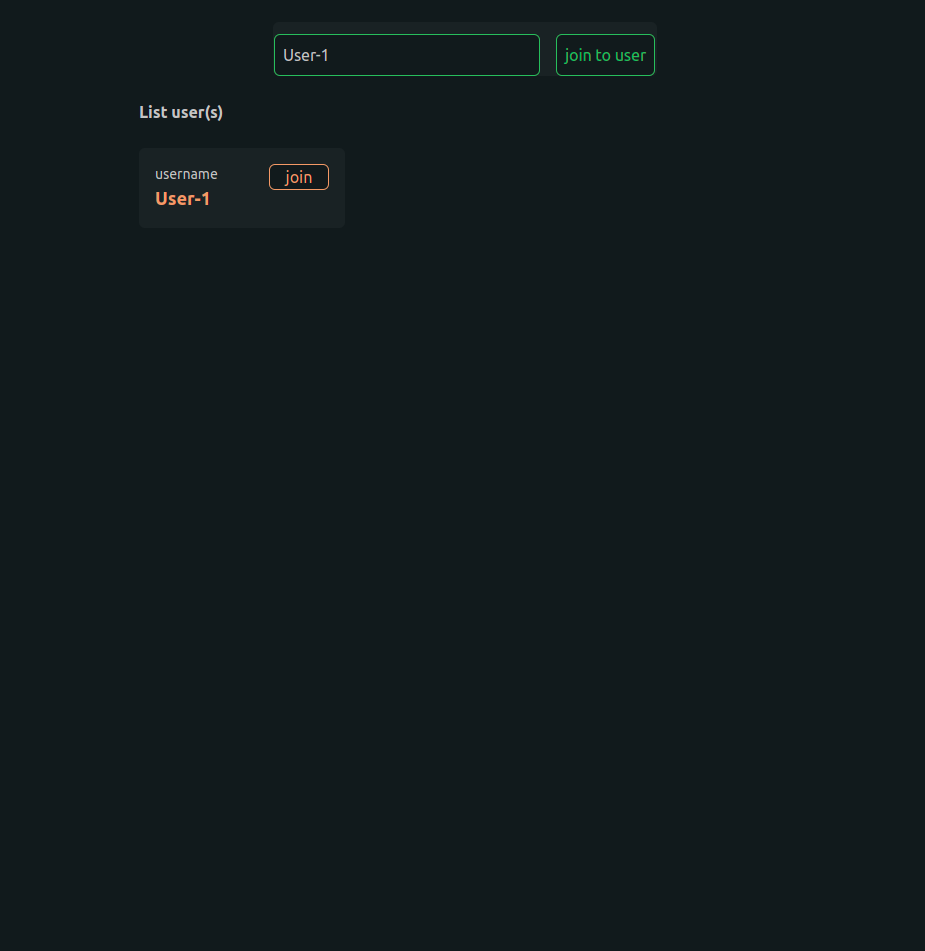
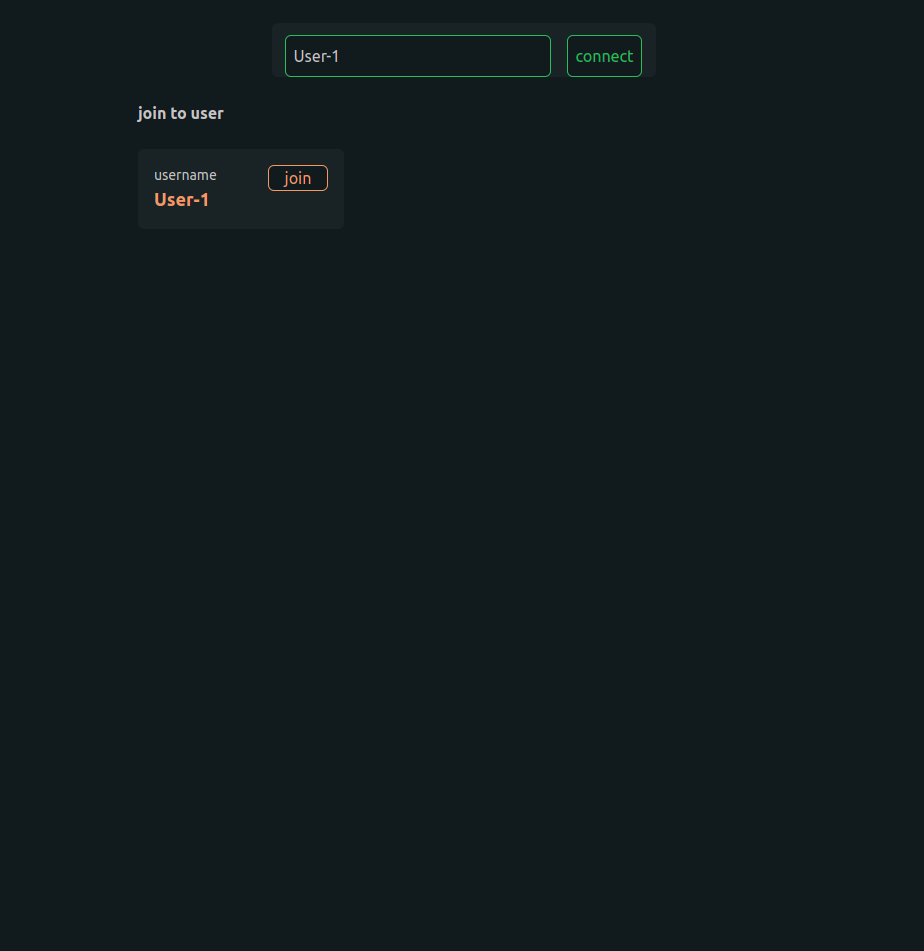
KYIV-dev | README

diff --git a/client/src/pages/index.tsx b/client/src/pages/index.tsx
@@ -91,13 +91,13 @@ export default function Index() {
               <button
                 className="bg-dark-primary mt-4 md:mt-0 border border-green text-green rounded-md p-2 md:ml-4"
                 onClick={submit}>
-                join to user
+                connect
               </button>
             </div>
           </div>
         </div>
         <div className="mt-6">
-          <div className="font-bold">List user(s)</div>
+          <div className="font-bold">join to user</div>
           <div className="grid grid-cols-1 md:grid-cols-3 gap-4 mt-6">
             {rooms.map((room, index) => (
               <div

diff --git a/README.md b/README.md
@@ -26,14 +26,18 @@
 > yarn start
 ```
 
-1. http://localhost:3000/register
-   ![Screenshot-10](client/screenshot_10.png)
-2. http://localhost:3000/login
-   ![Screenshot-11](client/screenshot_11.png)
-3. http://localhost:3000/app
-   ![Screenshot-12](client/screenshot_12.png)
-   ![Screenshot-13](client/screenshot_13.png)
-   ![Screenshot-14](client/screenshot_14.png)
-   ![Screenshot-15](client/screenshot_15.png)
-   ![Screenshot-16](client/screenshot_16.png)
-   ![Screenshot-17](client/screenshot_17.png)
+1. `register`: http://localhost:3000/register
+   ![Screenshot-10](screenshot_10.png)
+2. `login`: http://localhost:3000/login
+   ![Screenshot-11](screenshot_11.png)
+3. `connect`: http://localhost:3000/app
+   ![Screenshot-12](screenshot_12.png)
+   ![Screenshot-13](screenshot_13.png)
+   ![Screenshot-14](screenshot_14.png)
+   ![Screenshot-15](screenshot_15.png)
+   ![Screenshot-16](screenshot_16.png)
+4. `synchronized`: http://localhost:3000/app
+   ![Screenshot-17](screenshot_17.png)
+   ![Screenshot-17](screenshot_18.png)
+5. `disconnected`: http://localhost:3000/app
+   ![Screenshot-17](screenshot_19.png)

diff --git a/client/README.md b/client/README.md
@@ -32,17 +32,21 @@
 > yarn start
 ```
 
-1. http://localhost:3000/register
+1. `register`: http://localhost:3000/register
    ![Screenshot-10](screenshot_10.png)
-2. http://localhost:3000/login
+2. `login`: http://localhost:3000/login
    ![Screenshot-11](screenshot_11.png)
-3. http://localhost:3000/app
+3. `connect`: http://localhost:3000/app
    ![Screenshot-12](screenshot_12.png)
    ![Screenshot-13](screenshot_13.png)
    ![Screenshot-14](screenshot_14.png)
    ![Screenshot-15](screenshot_15.png)
    ![Screenshot-16](screenshot_16.png)
+4. `synchronized`: http://localhost:3000/app
    ![Screenshot-17](screenshot_17.png)
+   ![Screenshot-17](screenshot_18.png)
+5. `disconnected`: http://localhost:3000/app
+   ![Screenshot-17](screenshot_19.png)
 
 
 ---
